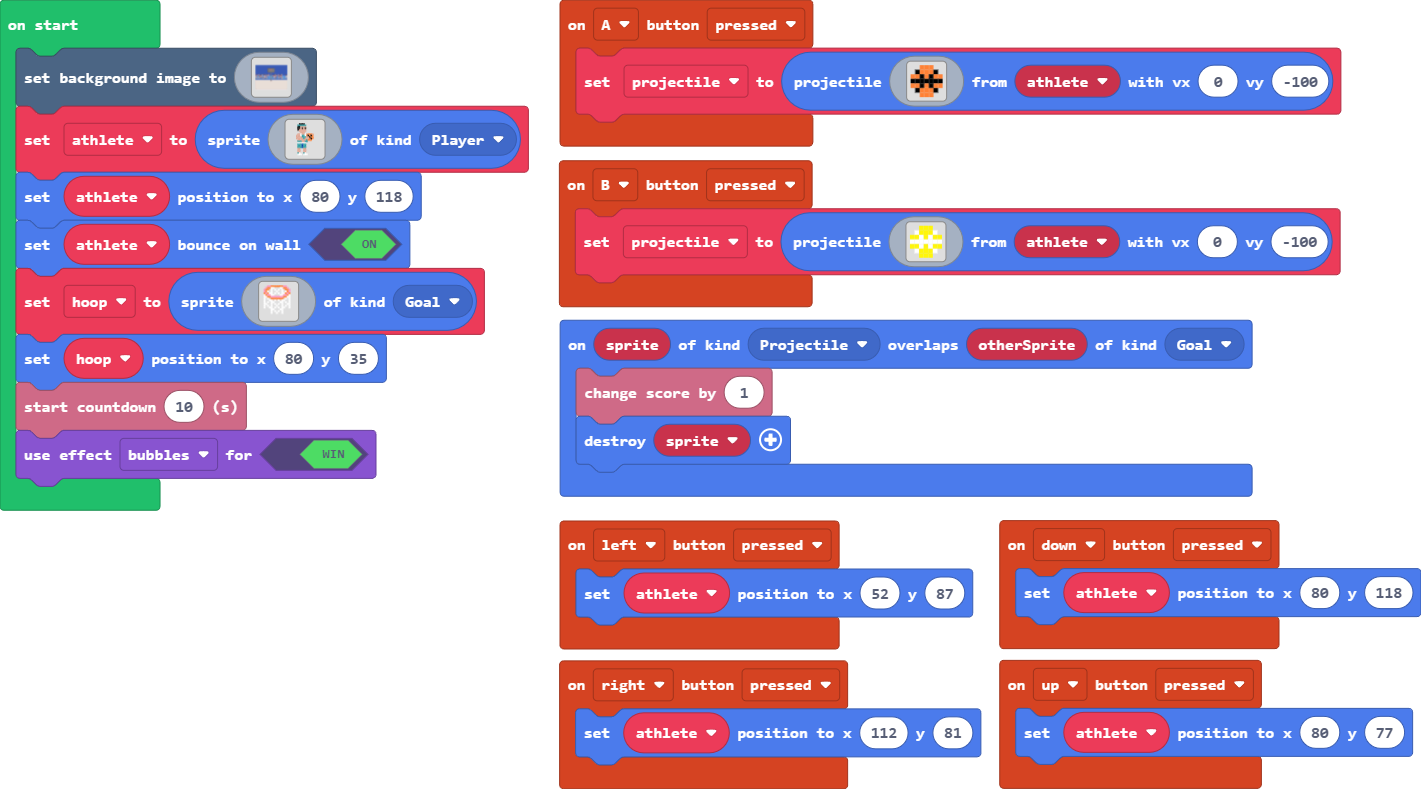
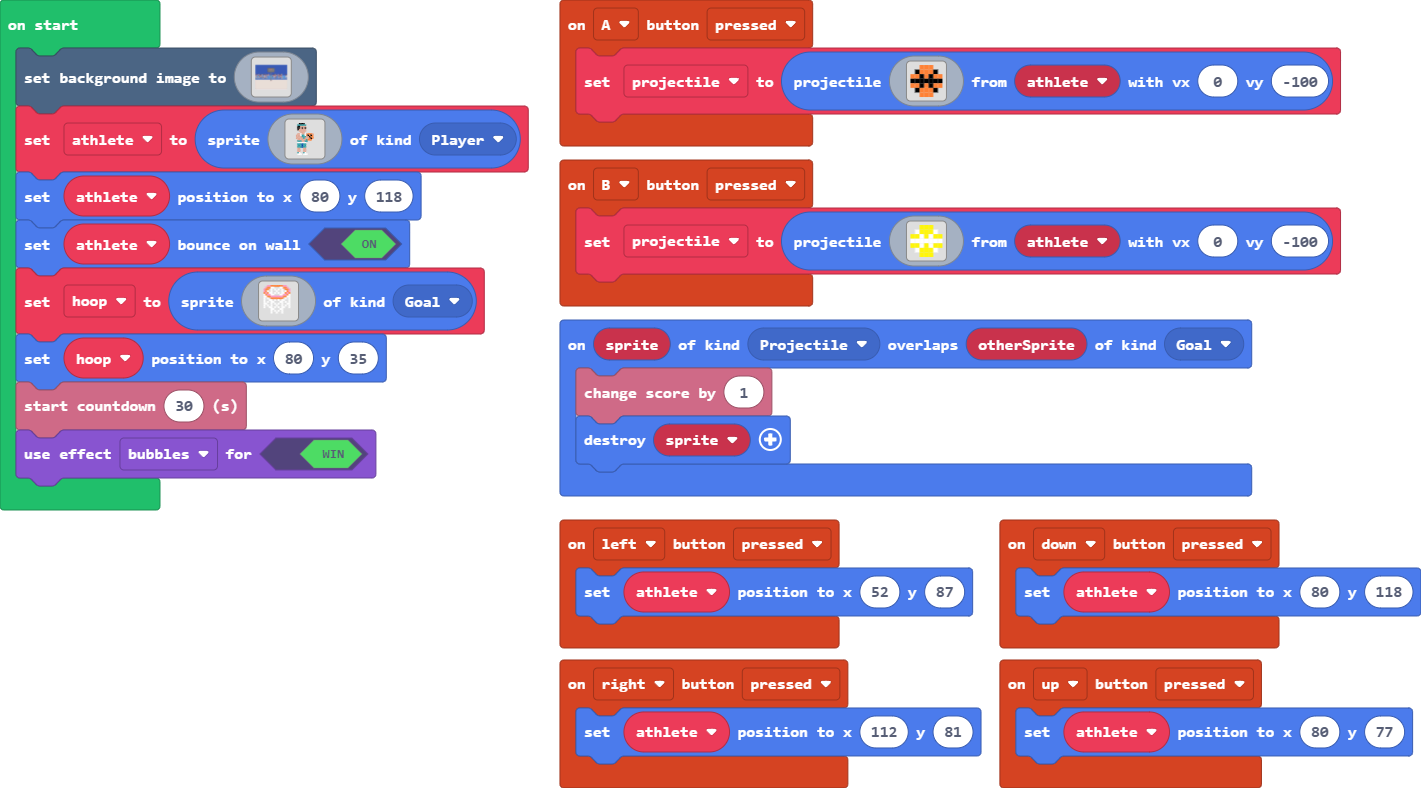
set countdown to 30s

diff --git a/main.ts b/main.ts
@@ -180,5 +180,5 @@ athlete.setPosition(80, 118)
 athlete.setBounceOnWall(true)
 let hoop = sprites.create(throw_imgs.hoop, SpriteKind.Goal)
 hoop.setPosition(80, 35)
-info.startCountdown(10)
+info.startCountdown(30)
 game.setGameOverEffect(true, effects.bubbles)
